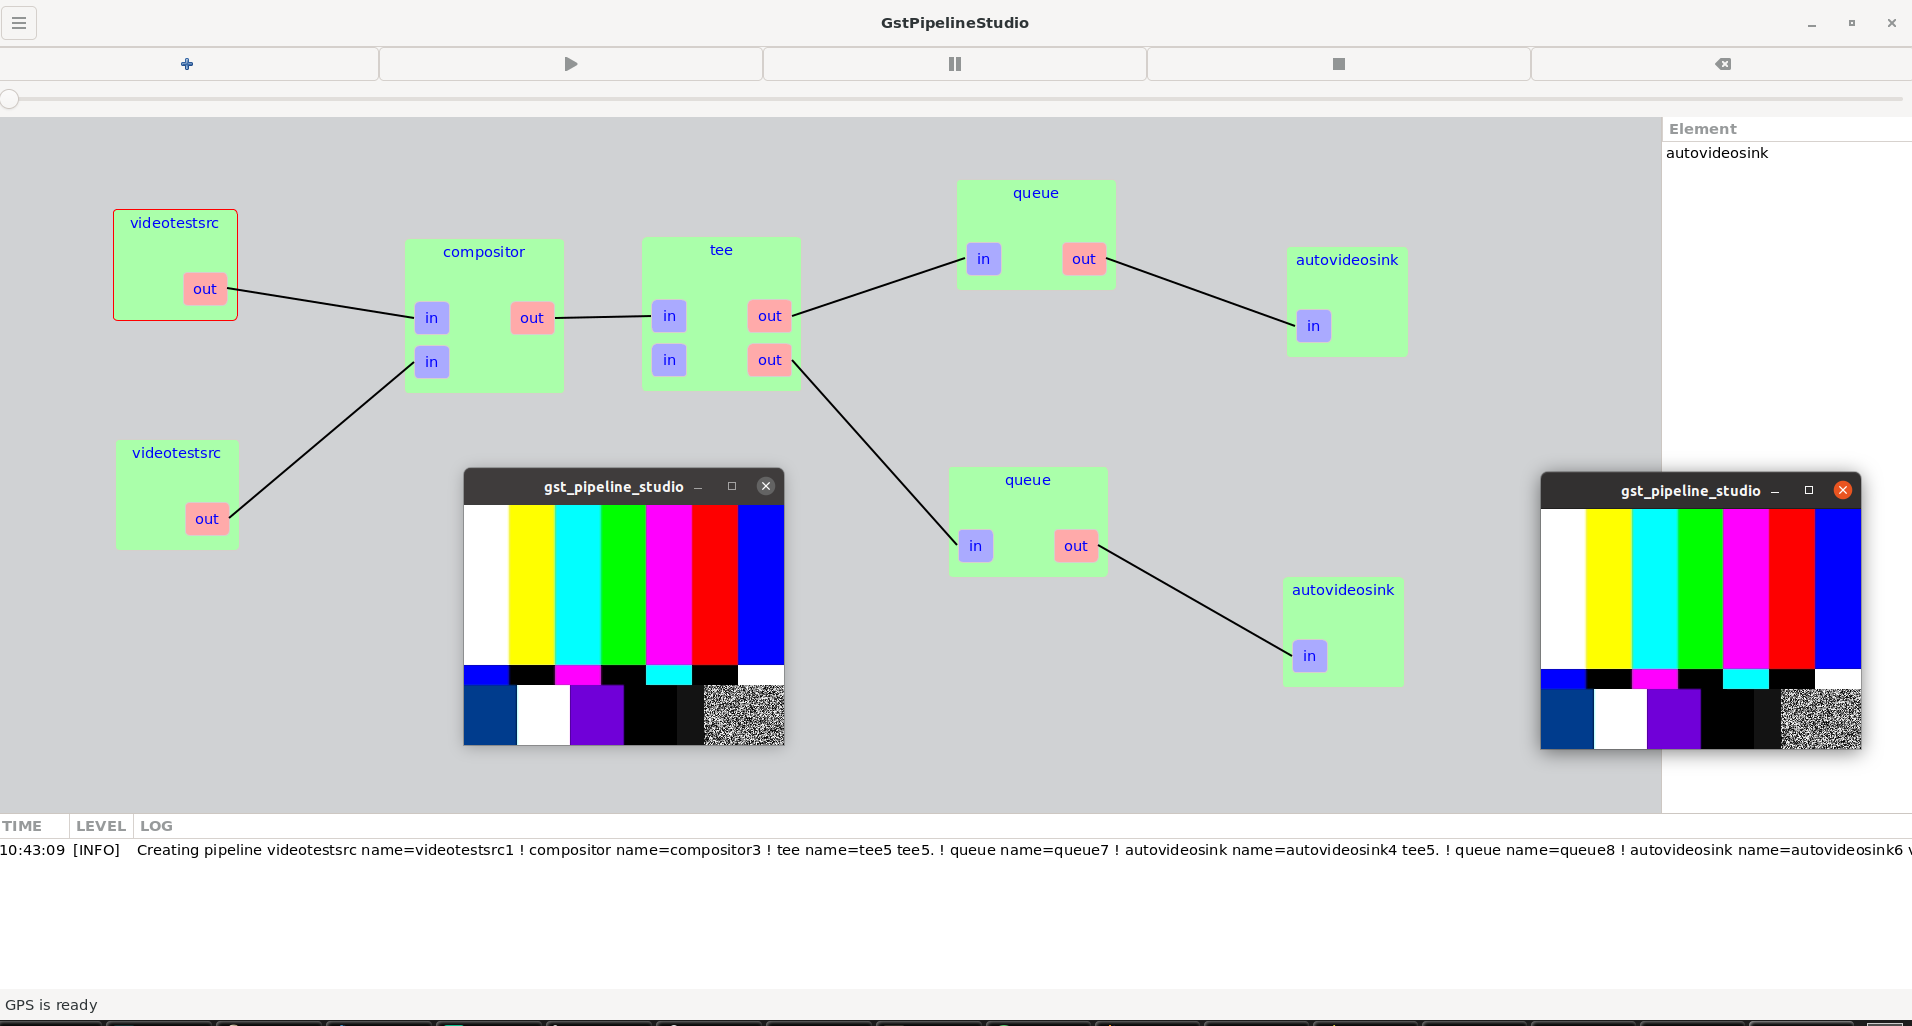
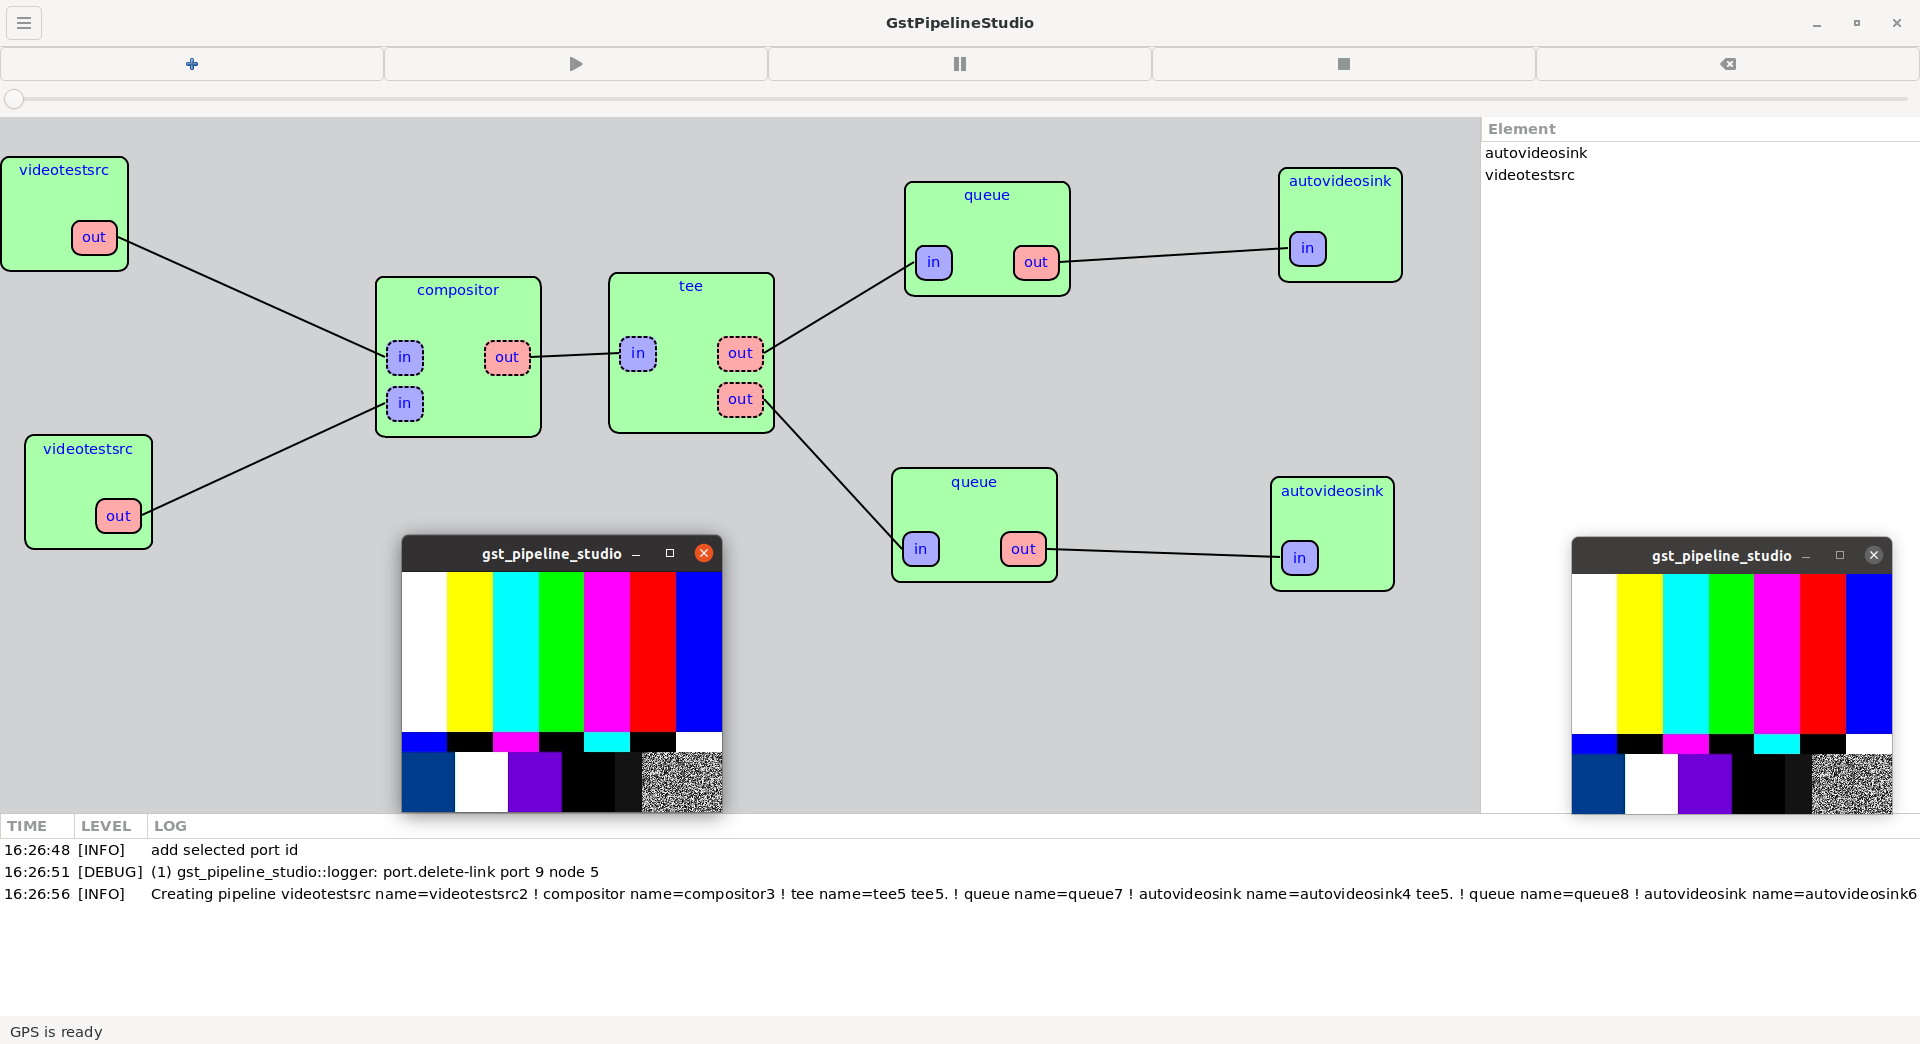
graphview: update css for node and port
Change border style and
port presence entries

diff --git a/src/graphmanager/graphview.css b/src/graphmanager/graphview.css
@@ -3,6 +3,10 @@
 button.node {
   color: rgb(0, 0, 255);
   background: rgb(170, 255, 170);
+  border-width: 2px;
+  border-style: solid;
+  border-radius: 10px;
+  border-color: rgb(0, 0, 0);
 }
 
 button.node-selected {
@@ -12,6 +16,10 @@ button.node-selected {
 
 button.port {
   color: rgb(0, 0, 255);
+  border-width: 2px;
+  border-style: solid;
+  border-radius: 10px;
+  border-color: rgb(0, 0, 0);
 }
 
 button.port-selected {
@@ -24,6 +32,14 @@ button.port-out {
 
 button.port-in {
   background: rgb(170, 170, 255);
+}
+
+button.port-sometimes {
+  border-style: dashed;
+}
+
+button.port-always {
+  border-style: solid;
 }
 
 graphview {

diff --git a/src/graphmanager/port.rs b/src/graphmanager/port.rs
@@ -140,6 +140,11 @@ impl Port {
             .presence
             .set(presence)
             .expect("Port presence already set");
+        if presence == PortPresence::Always {
+            port.add_css_class("port-always");
+        } else {
+            port.add_css_class("port-sometimes");
+        }
 
         let label = gtk::Label::new(Some(name));
         label.set_parent(&port);
